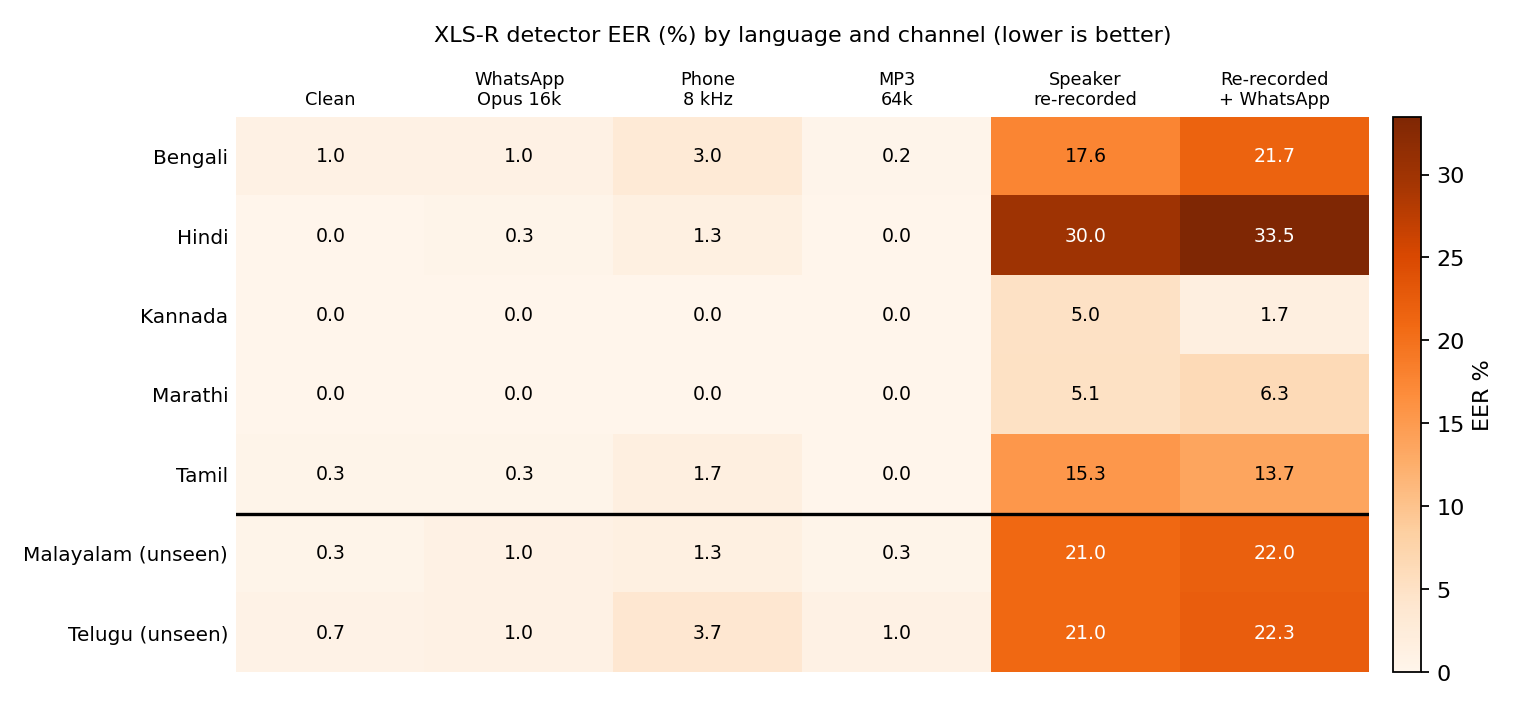
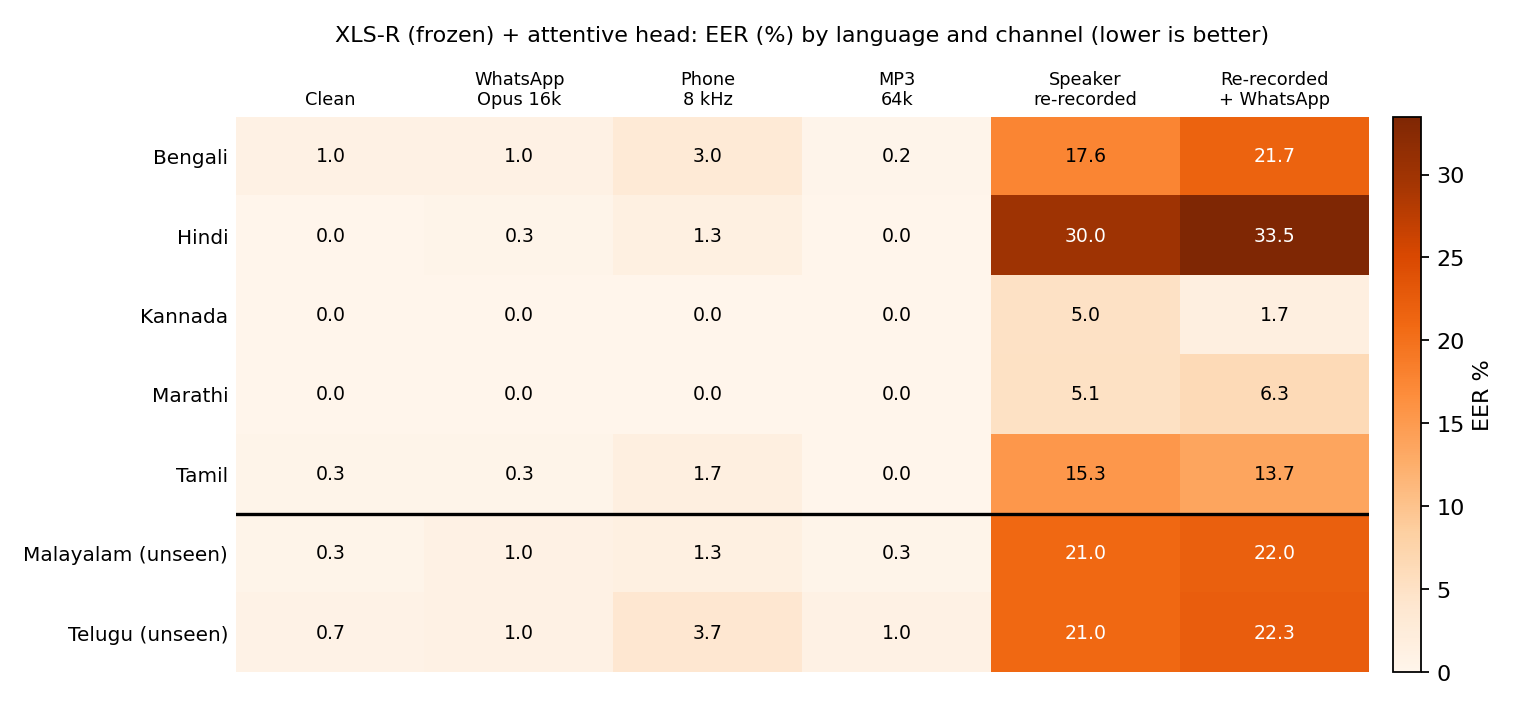
Results

Changed region(s): [[0.2164, 0.031, 0.8349, 0.062]]

diff --git a/README.md b/README.md
@@ -118,7 +118,7 @@ _Generated by `scripts/make_report.py` from `results/`. Detector metric: equal e
 
 Test speakers were never heard in training, as themselves or as clones. Channels are applied to the test clips to simulate how scam audio actually arrives.
 
-### XLS-R by language
+### XLS-R (frozen) + attentive head by language
 
 | Language | Clean | WhatsApp (Opus 16k) | Phone (8 kHz) | Re-recorded + WhatsApp |
 |---|---|---|---|---|
@@ -145,7 +145,7 @@ XLS-R retrained **without any XTTS-v2 clips**, then tested on XTTS-v2 clones (re
 
 Real (Kathbath) and fake (IndicSynth) clips differ in two ways unrelated to the voice: real files contain ~18× more padded digital silence, and fakes resampled from 24 kHz have slightly less 7–8 kHz energy. Removing each artifact barely moves the EER, so the detector is not relying on them. Codec, bandwidth, duration, loudness and noise floor were also audited (`scripts/audit_shortcuts.py`); loudness is neutralised by normalisation.
 
-| Test clips | XLS-R EER |
+| Test clips | XLS-R (frozen) + attentive head EER |
 |---|---|
 | Clean | 1.14% |
 | Dither (no digital silence) | 0.99% |
@@ -154,10 +154,10 @@ Real (Kathbath) and fake (IndicSynth) clips differ in two ways unrelated to the 
 
 ### Clone signature: matches a known voice *and* sounds synthetic
 
-| Channel | Speakers | Clones that fool speaker matching | …of those, caught by the detector | Red “cloned voice of <name>” on clones | Red on the real person (false accusation) |
-|---|---|---|---|---|---|
-| Clean | 19 | 12.6% | 91.7% | 11.6% | 0.0% |
-| WhatsApp (Opus 16k) | 19 | 13.7% | 92.3% | 12.6% | 0.0% |
+| Detector | Channel | Speakers | Clones that fool speaker matching | …of those, caught by the detector | Red “cloned voice of <name>” on clones | Red on the real person (false accusation) |
+|---|---|---|---|---|---|---|
+| XLS-R (frozen) + attentive head | Clean | 19 | 12.6% | 91.7% | 11.6% | 0.0% |
+| XLS-R (frozen) + attentive head | WhatsApp (Opus 16k) | 19 | 13.7% | 92.3% | 12.6% | 0.0% |
 
 Each test speaker is enrolled from 2 real clips; trials are other real clips of the same person, IndicSynth clones of that person, and real clips of other people.
 
@@ -178,7 +178,7 @@ Recorded on ordinary phones and shared over WhatsApp. None of these speakers are
 
 **Real WhatsApp voice notes from people outside both datasets** (expected: real)
 
-| Clip | Seconds | xlsr | specresnet |
+| Clip | Seconds | XLS-R (frozen) + attentive head | Log-mel ResNet (from scratch) |
 |---|---|---|---|
 | Mum_hindi | 8.0 | 0.042 ✅ real | 0.017 ✅ real |
 | Mum_hindi2 | 18.4 | 0.055 ✅ real | 0.005 ✅ real |
@@ -190,26 +190,26 @@ Recorded on ordinary phones and shared over WhatsApp. None of these speakers are
 | Sam_hindi | 16.9 | 0.246 ✅ real | 0.937 ⚠ fake |
 | Sam_kannada | 10.2 | 0.032 ✅ real | 0.154 ✅ real |
 
-xlsr: 9/9 correctly called real; specresnet: 7/9 correctly called real.
+XLS-R (frozen) + attentive head: 9/9 correctly called real; Log-mel ResNet (from scratch): 7/9 correctly called real.
 
 **XTTS-v2 clones of a team member's voice (scam lines), made from one WhatsApp voice note** (expected: fake)
 
-| Clip | Seconds | xlsr |
+| Clip | Seconds | XLS-R (frozen) + attentive head |
 |---|---|---|
 | xtts_refs_Riri_hindi_00000 | 4.8 | 0.969 ⚠ fake |
 | xtts_refs_Riri_hindi_00001 | 4.2 | 0.995 ⚠ fake |
 | xtts_refs_Riri_hindi_00002 | 5.6 | 0.917 ⚠ fake |
 
-xlsr: 3/3 correctly called fake.
+XLS-R (frozen) + attentive head: 3/3 correctly called fake.
 
 **XTTS-v2 clones of the same voice saying everyday sentences** (expected: fake)
 
-| Clip | Seconds | xlsr |
+| Clip | Seconds | XLS-R (frozen) + attentive head |
 |---|---|---|
 | xtts_refs_Riri_hindi_00000 | 3.7 | 0.960 ⚠ fake |
 | xtts_refs_Riri_hindi_00001 | 3.5 | 0.772 ✅ real |
 
-xlsr: 1/2 correctly called fake.
+XLS-R (frozen) + attentive head: 1/2 correctly called fake.
 
 ### Cost and calibration
 

diff --git a/results/REPORT.md b/results/REPORT.md
@@ -13,7 +13,7 @@ _Generated by `scripts/make_report.py` from `results/`. Detector metric: equal e
 
 Test speakers were never heard in training, as themselves or as clones. Channels are applied to the test clips to simulate how scam audio actually arrives.
 
-### XLS-R by language
+### XLS-R (frozen) + attentive head by language
 
 | Language | Clean | WhatsApp (Opus 16k) | Phone (8 kHz) | Re-recorded + WhatsApp |
 |---|---|---|---|---|
@@ -40,7 +40,7 @@ XLS-R retrained **without any XTTS-v2 clips**, then tested on XTTS-v2 clones (re
 
 Real (Kathbath) and fake (IndicSynth) clips differ in two ways unrelated to the voice: real files contain ~18× more padded digital silence, and fakes resampled from 24 kHz have slightly less 7–8 kHz energy. Removing each artifact barely moves the EER, so the detector is not relying on them. Codec, bandwidth, duration, loudness and noise floor were also audited (`scripts/audit_shortcuts.py`); loudness is neutralised by normalisation.
 
-| Test clips | XLS-R EER |
+| Test clips | XLS-R (frozen) + attentive head EER |
 |---|---|
 | Clean | 1.14% |
 | Dither (no digital silence) | 0.99% |
@@ -49,10 +49,10 @@ Real (Kathbath) and fake (IndicSynth) clips differ in two ways unrelated to the 
 
 ### Clone signature: matches a known voice *and* sounds synthetic
 
-| Channel | Speakers | Clones that fool speaker matching | …of those, caught by the detector | Red “cloned voice of <name>” on clones | Red on the real person (false accusation) |
-|---|---|---|---|---|---|
-| Clean | 19 | 12.6% | 91.7% | 11.6% | 0.0% |
-| WhatsApp (Opus 16k) | 19 | 13.7% | 92.3% | 12.6% | 0.0% |
+| Detector | Channel | Speakers | Clones that fool speaker matching | …of those, caught by the detector | Red “cloned voice of <name>” on clones | Red on the real person (false accusation) |
+|---|---|---|---|---|---|---|
+| XLS-R (frozen) + attentive head | Clean | 19 | 12.6% | 91.7% | 11.6% | 0.0% |
+| XLS-R (frozen) + attentive head | WhatsApp (Opus 16k) | 19 | 13.7% | 92.3% | 12.6% | 0.0% |
 
 Each test speaker is enrolled from 2 real clips; trials are other real clips of the same person, IndicSynth clones of that person, and real clips of other people.
 
@@ -73,7 +73,7 @@ Recorded on ordinary phones and shared over WhatsApp. None of these speakers are
 
 **Real WhatsApp voice notes from people outside both datasets** (expected: real)
 
-| Clip | Seconds | xlsr | specresnet |
+| Clip | Seconds | XLS-R (frozen) + attentive head | Log-mel ResNet (from scratch) |
 |---|---|---|---|
 | Mum_hindi | 8.0 | 0.042 ✅ real | 0.017 ✅ real |
 | Mum_hindi2 | 18.4 | 0.055 ✅ real | 0.005 ✅ real |
@@ -85,26 +85,26 @@ Recorded on ordinary phones and shared over WhatsApp. None of these speakers are
 | Sam_hindi | 16.9 | 0.246 ✅ real | 0.937 ⚠ fake |
 | Sam_kannada | 10.2 | 0.032 ✅ real | 0.154 ✅ real |
 
-xlsr: 9/9 correctly called real; specresnet: 7/9 correctly called real.
+XLS-R (frozen) + attentive head: 9/9 correctly called real; Log-mel ResNet (from scratch): 7/9 correctly called real.
 
 **XTTS-v2 clones of a team member's voice (scam lines), made from one WhatsApp voice note** (expected: fake)
 
-| Clip | Seconds | xlsr |
+| Clip | Seconds | XLS-R (frozen) + attentive head |
 |---|---|---|
 | xtts_refs_Riri_hindi_00000 | 4.8 | 0.969 ⚠ fake |
 | xtts_refs_Riri_hindi_00001 | 4.2 | 0.995 ⚠ fake |
 | xtts_refs_Riri_hindi_00002 | 5.6 | 0.917 ⚠ fake |
 
-xlsr: 3/3 correctly called fake.
+XLS-R (frozen) + attentive head: 3/3 correctly called fake.
 
 **XTTS-v2 clones of the same voice saying everyday sentences** (expected: fake)
 
-| Clip | Seconds | xlsr |
+| Clip | Seconds | XLS-R (frozen) + attentive head |
 |---|---|---|
 | xtts_refs_Riri_hindi_00000 | 3.7 | 0.960 ⚠ fake |
 | xtts_refs_Riri_hindi_00001 | 3.5 | 0.772 ✅ real |
 
-xlsr: 1/2 correctly called fake.
+XLS-R (frozen) + attentive head: 1/2 correctly called fake.
 
 ### Cost and calibration
 
